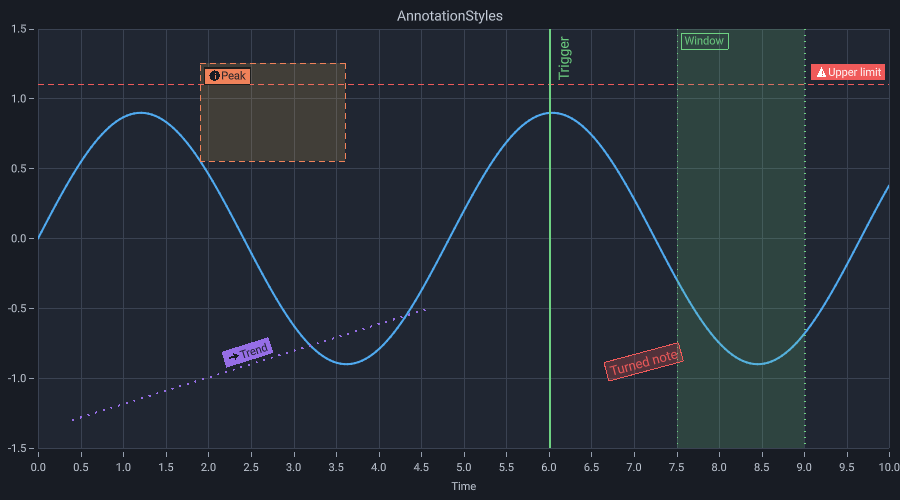
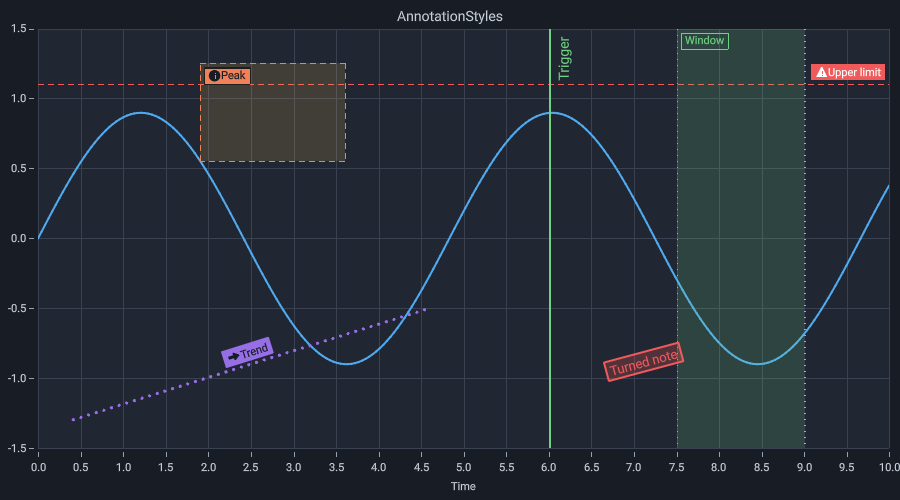
Sharper text and smooth slanted edges

diff --git a/src/Tachyon.Charts.Core/Overlays/ChartOverlay.cs b/src/Tachyon.Charts.Core/Overlays/ChartOverlay.cs
@@ -42,6 +42,7 @@ public sealed class OverlayCanvas
     private readonly Dictionary<object, IGpuTexture> _textures = [];
     private GlyphInstance[] _glyphs = new GlyphInstance[512];
     private int _glyphCount;
+    private MeshVertex[] _shape = new MeshVertex[64];
 
     internal OverlayCanvas(ITextEngine textEngine)
     {
@@ -265,8 +266,71 @@ public sealed class OverlayCanvas
         }
 
         var normal = new Vector2(-delta.Y, delta.X) / length * (width / 2);
-        FillTriangle(from + normal, to + normal, to - normal, color);
-        FillTriangle(from + normal, to - normal, from - normal, color);
+        FillPolygon([from + normal, to + normal, to - normal, from - normal], color);
+    }
+
+    /// <summary>
+    /// Fills a convex shape with smooth edges: a slanted edge fades out over one pixel, an edge along the pixel grid
+    /// stays sharp. The clip does not apply.
+    /// </summary>
+    /// <param name="corners">The corners in order, at least three, of a convex shape.</param>
+    /// <param name="color">The color.</param>
+    public void FillPolygon(ReadOnlySpan<Vector2> corners, Rgba8 color)
+    {
+        if (corners.Length < 3)
+        {
+            return;
+        }
+
+        // The fill as a fan and a band of one pixel outside each slanted edge, in pixels.
+        var needed = ((corners.Length - 2) * 3) + (corners.Length * 6);
+        if (_shape.Length < needed)
+        {
+            Array.Resize(ref _shape, Math.Max(_shape.Length * 2, needed));
+        }
+
+        var scale = (float)_scale;
+        var middle = Vector2.Zero;
+        foreach (var corner in corners)
+        {
+            middle += corner * scale;
+        }
+
+        middle /= corners.Length;
+        var clear = color with { A = 0 };
+        var count = 0;
+        var first = corners[0] * scale;
+        for (var i = 1; i < corners.Length - 1; i++)
+        {
+            _shape[count++] = new MeshVertex(first, color);
+            _shape[count++] = new MeshVertex(corners[i] * scale, color);
+            _shape[count++] = new MeshVertex(corners[i + 1] * scale, color);
+        }
+
+        for (var i = 0; i < corners.Length; i++)
+        {
+            var (a, b) = (corners[i] * scale, corners[(i + 1) % corners.Length] * scale);
+            var along = b - a;
+            if (MathF.Abs(along.X) < 0.01f || MathF.Abs(along.Y) < 0.01f)
+            {
+                continue;
+            }
+
+            var normal = Vector2.Normalize(new Vector2(along.Y, -along.X));
+            if (Vector2.Dot(normal, ((a + b) / 2) - middle) < 0)
+            {
+                normal = -normal;
+            }
+
+            _shape[count++] = new MeshVertex(a, color);
+            _shape[count++] = new MeshVertex(b, color);
+            _shape[count++] = new MeshVertex(b + normal, clear);
+            _shape[count++] = new MeshVertex(a, color);
+            _shape[count++] = new MeshVertex(b + normal, clear);
+            _shape[count++] = new MeshVertex(a + normal, clear);
+        }
+
+        _commands.FillMesh(_shape.AsSpan(0, count), null);
     }
 
     /// <summary>

diff --git a/src/Tachyon.Charts.Core/Annotations/AnnotationAppearance.cs b/src/Tachyon.Charts.Core/Annotations/AnnotationAppearance.cs
@@ -219,8 +219,7 @@ internal static class AnnotationPainter
         canvas.Clip = null;
         if (fill.A > 0)
         {
-            canvas.FillTriangle(Corner(-halfWidth, -halfHeight), Corner(halfWidth, -halfHeight), Corner(halfWidth, halfHeight), fill);
-            canvas.FillTriangle(Corner(-halfWidth, -halfHeight), Corner(halfWidth, halfHeight), Corner(-halfWidth, halfHeight), fill);
+            canvas.FillPolygon([Corner(-halfWidth, -halfHeight), Corner(halfWidth, -halfHeight), Corner(halfWidth, halfHeight), Corner(-halfWidth, halfHeight)], fill);
         }
 
         if (look.LabelBorder is { } border)
@@ -272,7 +271,7 @@ internal static class AnnotationPainter
         switch (icon)
         {
             case LabelIcon.Warning:
-                canvas.FillTriangle(At(0, -half), At(half, half), At(-half, half), color);
+                canvas.FillPolygon([At(0, -half), At(half, half), At(-half, half)], color);
 
                 // An exclamation mark cut out of the triangle.
                 var line = Math.Max(1.2f, size / 8);
@@ -280,12 +279,15 @@ internal static class AnnotationPainter
                 canvas.DrawLine(At(0, half * 0.58f), At(0, half * 0.75f), line, cut);
                 break;
             case LabelIcon.Info:
-                const int Steps = 12;
+                const int Steps = 24;
+                Span<Vector2> disc = stackalloc Vector2[Steps];
                 for (var i = 0; i < Steps; i++)
                 {
-                    var (a, b) = (i * MathF.Tau / Steps, (i + 1) * MathF.Tau / Steps);
-                    canvas.FillTriangle(middle, At(MathF.Cos(a) * half, MathF.Sin(a) * half), At(MathF.Cos(b) * half, MathF.Sin(b) * half), color);
+                    var turn = i * MathF.Tau / Steps;
+                    disc[i] = At(MathF.Cos(turn) * half, MathF.Sin(turn) * half);
                 }
+
+                canvas.FillPolygon(disc, color);
 
                 // An "i" cut out of the disc.
                 var stroke = Math.Max(1.2f, size / 7);
@@ -295,11 +297,10 @@ internal static class AnnotationPainter
                 break;
             case LabelIcon.Arrow:
                 canvas.DrawLine(At(-half, 0), At(0, 0), Math.Max(1.5f, size / 5), color);
-                canvas.FillTriangle(At(0, -half * 0.7f), At(half, 0), At(0, half * 0.7f), color);
+                canvas.FillPolygon([At(0, -half * 0.7f), At(half, 0), At(0, half * 0.7f)], color);
                 break;
             case LabelIcon.Marker:
-                canvas.FillTriangle(At(-half * 0.8f, -half * 0.8f), At(half * 0.8f, -half * 0.8f), At(half * 0.8f, half * 0.8f), color);
-                canvas.FillTriangle(At(-half * 0.8f, -half * 0.8f), At(half * 0.8f, half * 0.8f), At(-half * 0.8f, half * 0.8f), color);
+                canvas.FillPolygon([At(-half * 0.8f, -half * 0.8f), At(half * 0.8f, -half * 0.8f), At(half * 0.8f, half * 0.8f), At(-half * 0.8f, half * 0.8f)], color);
                 break;
         }
     }

diff --git a/src/Tachyon.Charts.Core/Annotations/Annotations.cs b/src/Tachyon.Charts.Core/Annotations/Annotations.cs
@@ -139,7 +139,14 @@ public abstract class Annotation(AxisBase? xAxis, AxisBase? yAxis) : ChartOverla
     /// The first that holds a position wins, so corners come before edges.
     /// </summary>
     /// <param name="areas">The places.</param>
-    protected void SetHandles(params DipRect[] areas) => _handles = new HandleAreas(areas);
+    protected void SetHandles(params ReadOnlySpan<DipRect> areas)
+    {
+        // A new copy only when the areas change: an annotation that stays where it is allocates nothing per frame.
+        if (_handles is not { } current || !areas.SequenceEqual(current.Areas))
+        {
+            _handles = new HandleAreas(areas.ToArray());
+        }
+    }
 
     /// <summary>Draws small squares at points, while the pointer is over an annotation that may be edited.</summary>
     /// <param name="canvas">The canvas.</param>
@@ -242,7 +249,13 @@ public abstract class Annotation(AxisBase? xAxis, AxisBase? yAxis) : ChartOverla
 
     /// <summary>Remembers the area of this frame.</summary>
     /// <param name="bounds">The area.</param>
-    protected void SetBounds(DipRect bounds) => _bounds = new StrongBounds(bounds);
+    protected void SetBounds(DipRect bounds)
+    {
+        if (_bounds?.Value != bounds)
+        {
+            _bounds = new StrongBounds(bounds);
+        }
+    }
 
     /// <summary>Spans two positions.</summary>
     /// <param name="a">One corner.</param>
@@ -695,7 +708,10 @@ public sealed class LineAnnotation(AxisBase? xAxis, AxisBase? yAxis) : Annotatio
     protected internal override void Draw(OverlayCanvas canvas)
     {
         var (a, b) = (ToChart(canvas, _x1, _y1), ToChart(canvas, _x2, _y2));
-        _ends = new Ends(a, b);
+        if (_ends is not { } ends || ends.A != a || ends.B != b)
+        {
+            _ends = new Ends(a, b);
+        }
         canvas.Clip = canvas.Layout.PlotArea;
         AnnotationPainter.Line(canvas, a, b, Appearance.Thickness ?? Thickness, Color, Appearance.Dash);
         SetBounds(Span(a, b));

diff --git a/src/Tachyon.Charts.Rendering.Skia/Text/SkiaTextEngine.cs b/src/Tachyon.Charts.Rendering.Skia/Text/SkiaTextEngine.cs
@@ -140,6 +140,10 @@ public sealed class SkiaTextEngine : ITextEngine, IDisposable
         var scale = size / FieldEmSize;
         var distanceScale = 2 * FieldRange * scale;
         var shaped = GetShaped(text);
+
+        // On whole pixels: the baseline, so that the feet of the letters stay sharp, and the start of the text, so that
+        // the same text looks the same wherever it stands. The letters keep their spacing between them.
+        var (startX, baselineY) = (MathF.Round(baseline.X), MathF.Round(baseline.Y));
         var pen = 0L;
         var count = 0;
         foreach (var glyph in shaped)
@@ -147,8 +151,8 @@ public sealed class SkiaTextEngine : ITextEngine, IDisposable
             var atlasGlyph = GetGlyph(glyph.Codepoint);
             if (atlasGlyph.Width > 0)
             {
-                var x = baseline.X + ((pen + glyph.XOffset) * size / _unitsPerEm) + (atlasGlyph.Left * scale);
-                var y = baseline.Y - (glyph.YOffset * size / _unitsPerEm) + (atlasGlyph.Top * scale);
+                var x = startX + ((pen + glyph.XOffset) * size / _unitsPerEm) + (atlasGlyph.Left * scale);
+                var y = baselineY - (glyph.YOffset * size / _unitsPerEm) + (atlasGlyph.Top * scale);
                 glyphs[count++] = new GlyphInstance(
                     new Vector2(x, y),
                     new Vector2(atlasGlyph.Width * scale, atlasGlyph.Height * scale),

diff --git a/src/Tachyon.Charts.Rendering.Skia/Text/GlyphRasterizer.cs b/src/Tachyon.Charts.Rendering.Skia/Text/GlyphRasterizer.cs
@@ -79,7 +79,7 @@ internal static class GlyphRasterizer
                 }
 
                 var uv = Vector2.Lerp(glyph.UvMin, glyph.UvMax, new Vector2(u, v));
-                var coverage = Math.Clamp(((Sample(atlas, uv) - 0.5f) * glyph.DistanceScale) + 0.5f, 0, 1);
+                var coverage = Math.Clamp(((Sample(atlas, uv) - 0.5f) * glyph.DistanceScale) + 0.5f + Embolden(glyph.DistanceScale), 0, 1);
                 var alpha = (byte)((coverage * glyph.Color.A) + 0.5f);
 
                 ref var pixel = ref pixels[((y - top) * width) + (x - left)];
@@ -112,6 +112,10 @@ internal static class GlyphRasterizer
 
         return (minimum, maximum);
     }
+
+    // Small text gets slightly stronger strokes, as in the shader: the em size in pixels is the distance scale times
+    // the em size of the field over twice its range.
+    private static float Embolden(float distanceScale) => Math.Clamp((16f - (distanceScale * 5f)) / 8f, 0f, 1f) * 0.15f;
 
     // Bilinear, like the sampler of the shader, before the median.
     private static float Sample(SkiaTexture atlas, Vector2 uv)
